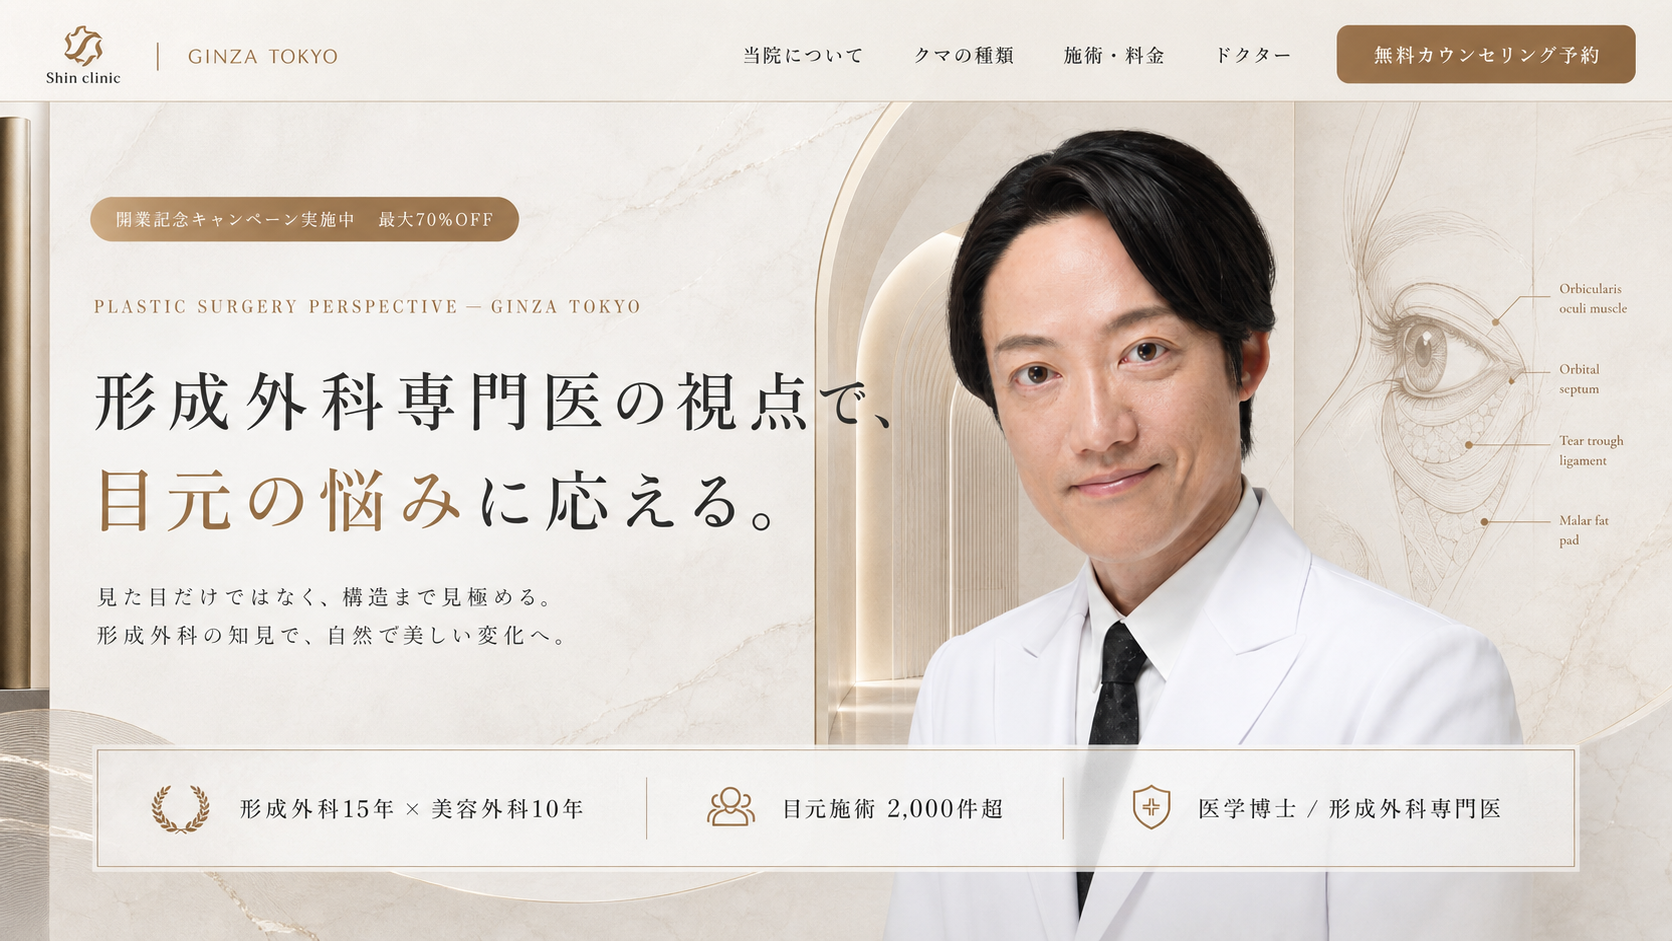
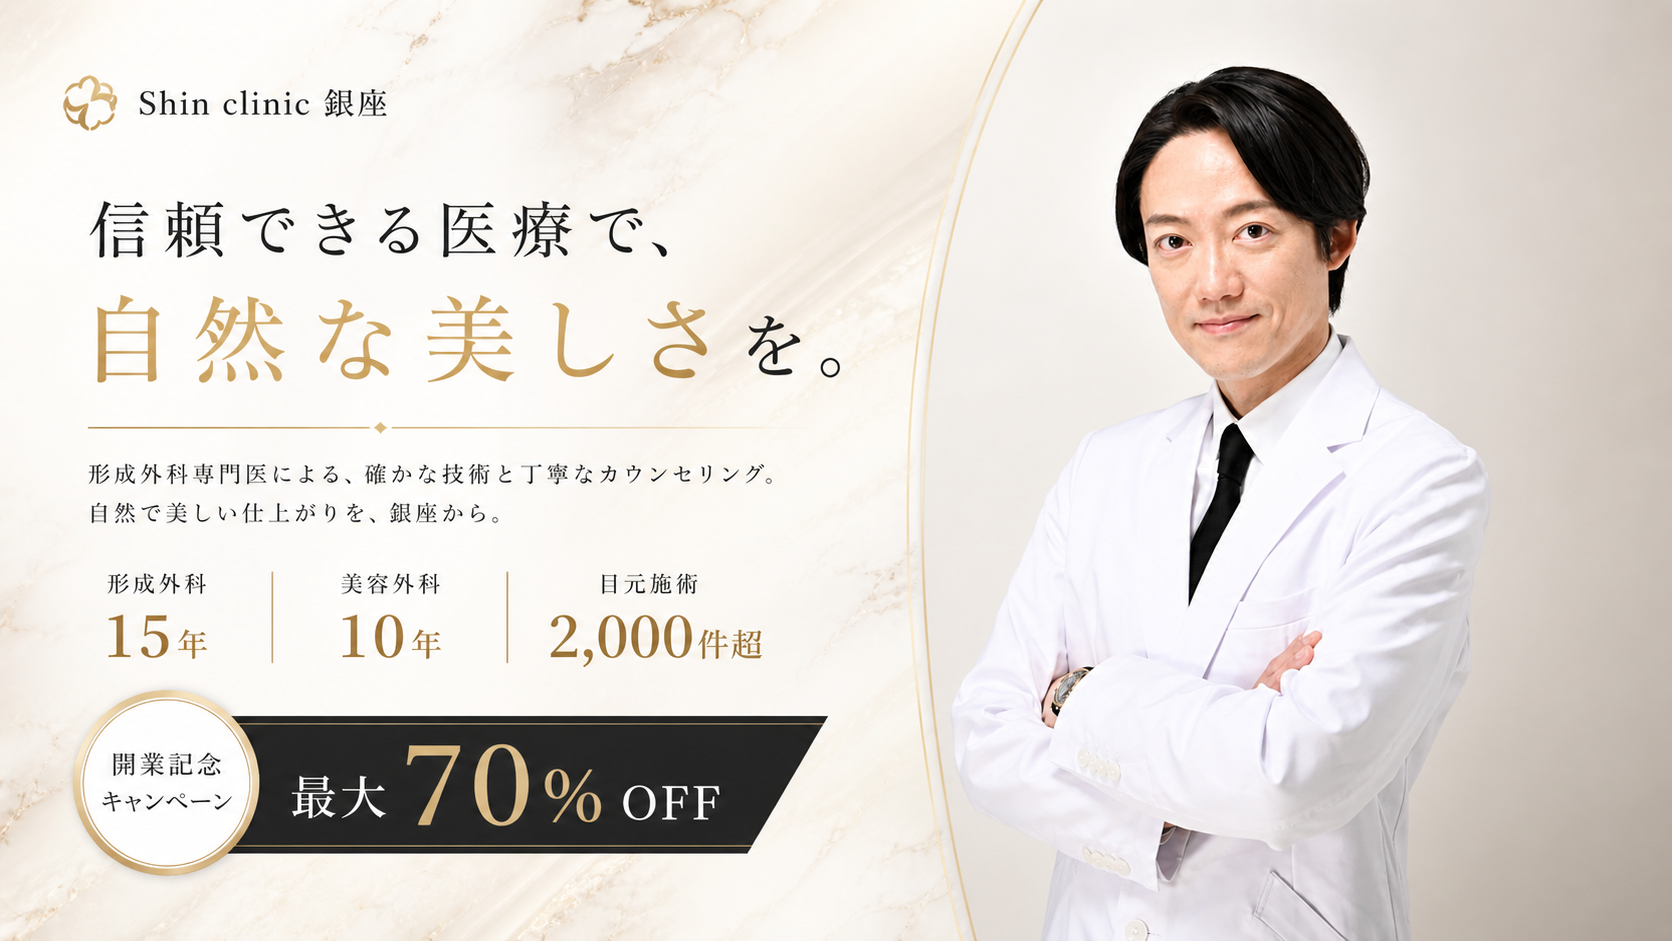
Redesign body to match new FV: Inter nums, horizontal stats, campaign ribbon, updated colors

diff --git a/index.html b/index.html
@@ -31,23 +31,23 @@ const TWEAK_DEFAULTS = /*EDITMODE-BEGIN*/{
 
 <style>
 :root {
-  --primary: #B89968;
-  --primary-deep: #8C6F3E;
-  --gold-soft: #D4B98C;
-  --gold-pale: #EBDFC4;
-  --bg: #FBF9F4;
-  --bg-warm: #F5EFE3;
-  --bg-cream: #F2EBDB;
-  --bg-card: #ffffff;
-  --bg-dark: #1A1612;
-  --bg-darker: #0E0B08;
-  --text: #1F1A15;
+  --primary: #B8974A;
+  --primary-deep: #8B6E32;
+  --gold-soft: #D4B878;
+  --gold-pale: #EDE0C0;
+  --bg: #F8F3EC;
+  --bg-warm: #F2EBE0;
+  --bg-cream: #EDE3D5;
+  --bg-card: #FEFCF8;
+  --bg-dark: #1A1A1A;
+  --bg-darker: #111111;
+  --text: #1A1A1A;
   --text-muted: #6B6259;
-  --line: rgba(140, 111, 62, 0.18);
-  --line-soft: rgba(140, 111, 62, 0.10);
-  --shadow-sm: 0 2px 12px rgba(70, 50, 20, 0.05);
-  --shadow-md: 0 8px 30px rgba(70, 50, 20, 0.08);
-  --shadow-lg: 0 24px 70px rgba(70, 50, 20, 0.14);
+  --line: rgba(184, 151, 74, 0.2);
+  --line-soft: rgba(184, 151, 74, 0.1);
+  --shadow-sm: 0 2px 12px rgba(50, 38, 10, 0.06);
+  --shadow-md: 0 8px 30px rgba(50, 38, 10, 0.09);
+  --shadow-lg: 0 24px 70px rgba(50, 38, 10, 0.13);
 
   --font-heading: 'Shippori Mincho', 'Noto Serif JP', serif;
   --font-body: 'Noto Sans JP', sans-serif;
@@ -537,55 +537,107 @@ section { position: relative; }
 }
 
 /* ============ PROOF NUMBERS ============ */
+/* ============ PROOF / STATS ============ */
 .proof {
-  background: linear-gradient(180deg, var(--bg) 0%, var(--bg-warm) 100%);
-  padding: 110px 48px;
+  background: var(--bg);
+  padding: 0;
 }
-.proof-grid {
+.proof-stats {
   max-width: var(--container);
   margin: 0 auto;
-  display: grid;
-  grid-template-columns: repeat(3, 1fr);
-  gap: 1px;
-  background: var(--line);
-  border: 1px solid var(--line);
+  display: flex;
+  align-items: center;
+  justify-content: center;
+  gap: 0;
+  padding: 56px 48px;
+  border-bottom: 1px solid var(--line);
 }
-.proof-item {
-  background: var(--bg);
-  padding: 64px 40px;
+.proof-stat-item {
+  flex: 1;
   text-align: center;
-  position: relative;
-  transition: background 0.4s ease;
+  padding: 0 32px;
 }
-.proof-item:hover { background: var(--bg-warm); }
-.proof-icon {
-  width: 36px; height: 36px;
-  margin: 0 auto 24px;
-  color: var(--primary-deep);
-}
-.proof-num {
-  font-family: var(--font-en);
-  font-size: clamp(56px, 6.5vw, 92px);
+.proof-stat-label {
+  font-family: var(--font-heading);
+  font-size: 14px;
   font-weight: 500;
+  color: var(--text-muted);
+  letter-spacing: 0.1em;
+  margin-bottom: 8px;
+}
+.proof-stat-num {
+  font-family: var(--font-en);
+  font-size: clamp(36px, 4.5vw, 56px);
+  font-weight: 600;
   color: var(--primary-deep);
   line-height: 1;
-  margin-bottom: 24px;
-  letter-spacing: 0.02em;
+  letter-spacing: -0.01em;
 }
-.proof-num .unit {
-  font-size: 0.36em;
+.proof-stat-unit {
+  font-size: 0.45em;
+  font-family: var(--font-heading);
+  font-weight: 500;
   color: var(--text);
-  margin-left: 6px;
+  margin-left: 4px;
   letter-spacing: 0.05em;
-  font-family: var(--font-heading);
-  font-weight: 500;
 }
-.proof-label {
+.proof-stat-div {
+  width: 1px;
+  height: 56px;
+  background: var(--line);
+  flex-shrink: 0;
+}
+/* キャンペーンリボン */
+.campaign-ribbon {
+  background: var(--bg-dark);
+  padding: 36px 48px;
+}
+.campaign-ribbon-inner {
+  max-width: var(--container);
+  margin: 0 auto;
+  display: flex;
+  align-items: center;
+  justify-content: center;
+  gap: 40px;
+  flex-wrap: wrap;
+}
+.campaign-ribbon-badge {
+  display: inline-flex;
+  align-items: center;
+  justify-content: center;
+  width: 100px; height: 100px;
+  border: 1px solid var(--primary);
+  border-radius: 50%;
   font-family: var(--font-heading);
-  font-size: 16px;
+  font-size: 13px;
   font-weight: 500;
-  line-height: 1.9;
-  color: var(--text);
+  color: var(--primary);
+  letter-spacing: 0.06em;
+  text-align: center;
+  line-height: 1.6;
+  flex-shrink: 0;
+}
+.campaign-ribbon-main {
+  font-family: var(--font-en);
+  font-size: clamp(36px, 5vw, 64px);
+  font-weight: 700;
+  color: #fff;
+  letter-spacing: -0.02em;
+  line-height: 1;
+}
+.campaign-ribbon-num {
+  font-size: 1.4em;
+  color: var(--primary);
+}
+.campaign-ribbon-pct {
+  font-size: 0.7em;
+  color: var(--primary);
+}
+.campaign-ribbon-sub {
+  font-family: var(--font-heading);
+  font-size: 14px;
+  color: rgba(255,255,255,0.6);
+  letter-spacing: 0.06em;
 }
 
 /* ============ DIAGNOSIS / CLUMA TYPES ============ */
@@ -1280,10 +1332,16 @@ section { position: relative; }
   .section-lead { font-size: 14px; margin-bottom: 56px; }
   .section-title { letter-spacing: 0.04em; }
 
-  .proof { padding: 70px 20px; }
-  .proof-grid { grid-template-columns: 1fr; gap: 1px; }
-  .proof-item { padding: 40px 20px; }
-  .proof-num { font-size: clamp(48px, 14vw, 64px); }
+  .proof-stats { padding: 36px 20px; gap: 0; flex-wrap: nowrap; }
+  .proof-stat-item { padding: 0 16px; }
+  .proof-stat-label { font-size: 11px; }
+  .proof-stat-num { font-size: clamp(24px, 6vw, 36px); }
+  .proof-stat-div { height: 40px; }
+  .campaign-ribbon { padding: 28px 20px; }
+  .campaign-ribbon-inner { gap: 20px; }
+  .campaign-ribbon-badge { width: 76px; height: 76px; font-size: 11px; }
+  .campaign-ribbon-main { font-size: clamp(28px, 8vw, 44px); }
+  .campaign-ribbon-sub { font-size: 12px; }
 
   .types-grid {
     grid-template-columns: 1fr;
@@ -1717,32 +1775,28 @@ body.dark .hero-stats { background: rgba(31,26,20,0.6); }
 
 <!-- ============ PROOF ============ -->
 <section class="proof fade-in">
-  <div class="proof-grid">
-    <div class="proof-item">
-      <svg class="proof-icon" viewBox="0 0 36 36" fill="none" stroke="currentColor" stroke-width="1.3">
-        <circle cx="18" cy="13" r="9"/>
-        <path d="M13 20l-3 13 8-5 8 5-3-13"/>
-      </svg>
-      <div class="proof-num">15<span class="unit">年</span></div>
-      <div class="proof-label">形成外科専門医として<br>積み重ねた臨床経験</div>
+  <div class="proof-stats">
+    <div class="proof-stat-item">
+      <div class="proof-stat-label">形成外科</div>
+      <div class="proof-stat-num">15<span class="proof-stat-unit">年</span></div>
     </div>
-    <div class="proof-item">
-      <svg class="proof-icon" viewBox="0 0 36 36" fill="none" stroke="currentColor" stroke-width="1.3">
-        <circle cx="13" cy="13" r="4"/>
-        <circle cx="25" cy="14" r="3.5"/>
-        <path d="M5 28c0-4 4-7 8-7s8 3 8 7"/>
-        <path d="M19 25c0-3 3-5 5-5s5 2 5 5"/>
-      </svg>
-      <div class="proof-num">2,000<span class="unit">件+</span></div>
-      <div class="proof-label">目元・クマ治療の<br>豊富な施術実績</div>
+    <div class="proof-stat-div"></div>
+    <div class="proof-stat-item">
+      <div class="proof-stat-label">美容外科</div>
+      <div class="proof-stat-num">10<span class="proof-stat-unit">年</span></div>
     </div>
-    <div class="proof-item">
-      <svg class="proof-icon" viewBox="0 0 36 36" fill="none" stroke="currentColor" stroke-width="1.3">
-        <path d="M18 3L6 9v9c0 7 5 13 12 15 7-2 12-8 12-15V9z"/>
-        <path d="M13 18l3 3 7-7"/>
-      </svg>
-      <div class="proof-num">70<span class="unit">%OFF</span></div>
-      <div class="proof-label">開業記念キャンペーン<br>特別価格を実施中</div>
+    <div class="proof-stat-div"></div>
+    <div class="proof-stat-item">
+      <div class="proof-stat-label">目元施術</div>
+      <div class="proof-stat-num">2,000<span class="proof-stat-unit">件超</span></div>
+    </div>
+  </div>
+  <!-- キャンペーンリボン -->
+  <div class="campaign-ribbon">
+    <div class="campaign-ribbon-inner">
+      <div class="campaign-ribbon-badge">開業記念キャンペーン</div>
+      <div class="campaign-ribbon-main">最大<span class="campaign-ribbon-num">70</span><span class="campaign-ribbon-pct">%</span> OFF</div>
+      <div class="campaign-ribbon-sub">全顔モニター対象 ― 期間限定特別価格</div>
     </div>
   </div>
 </section>